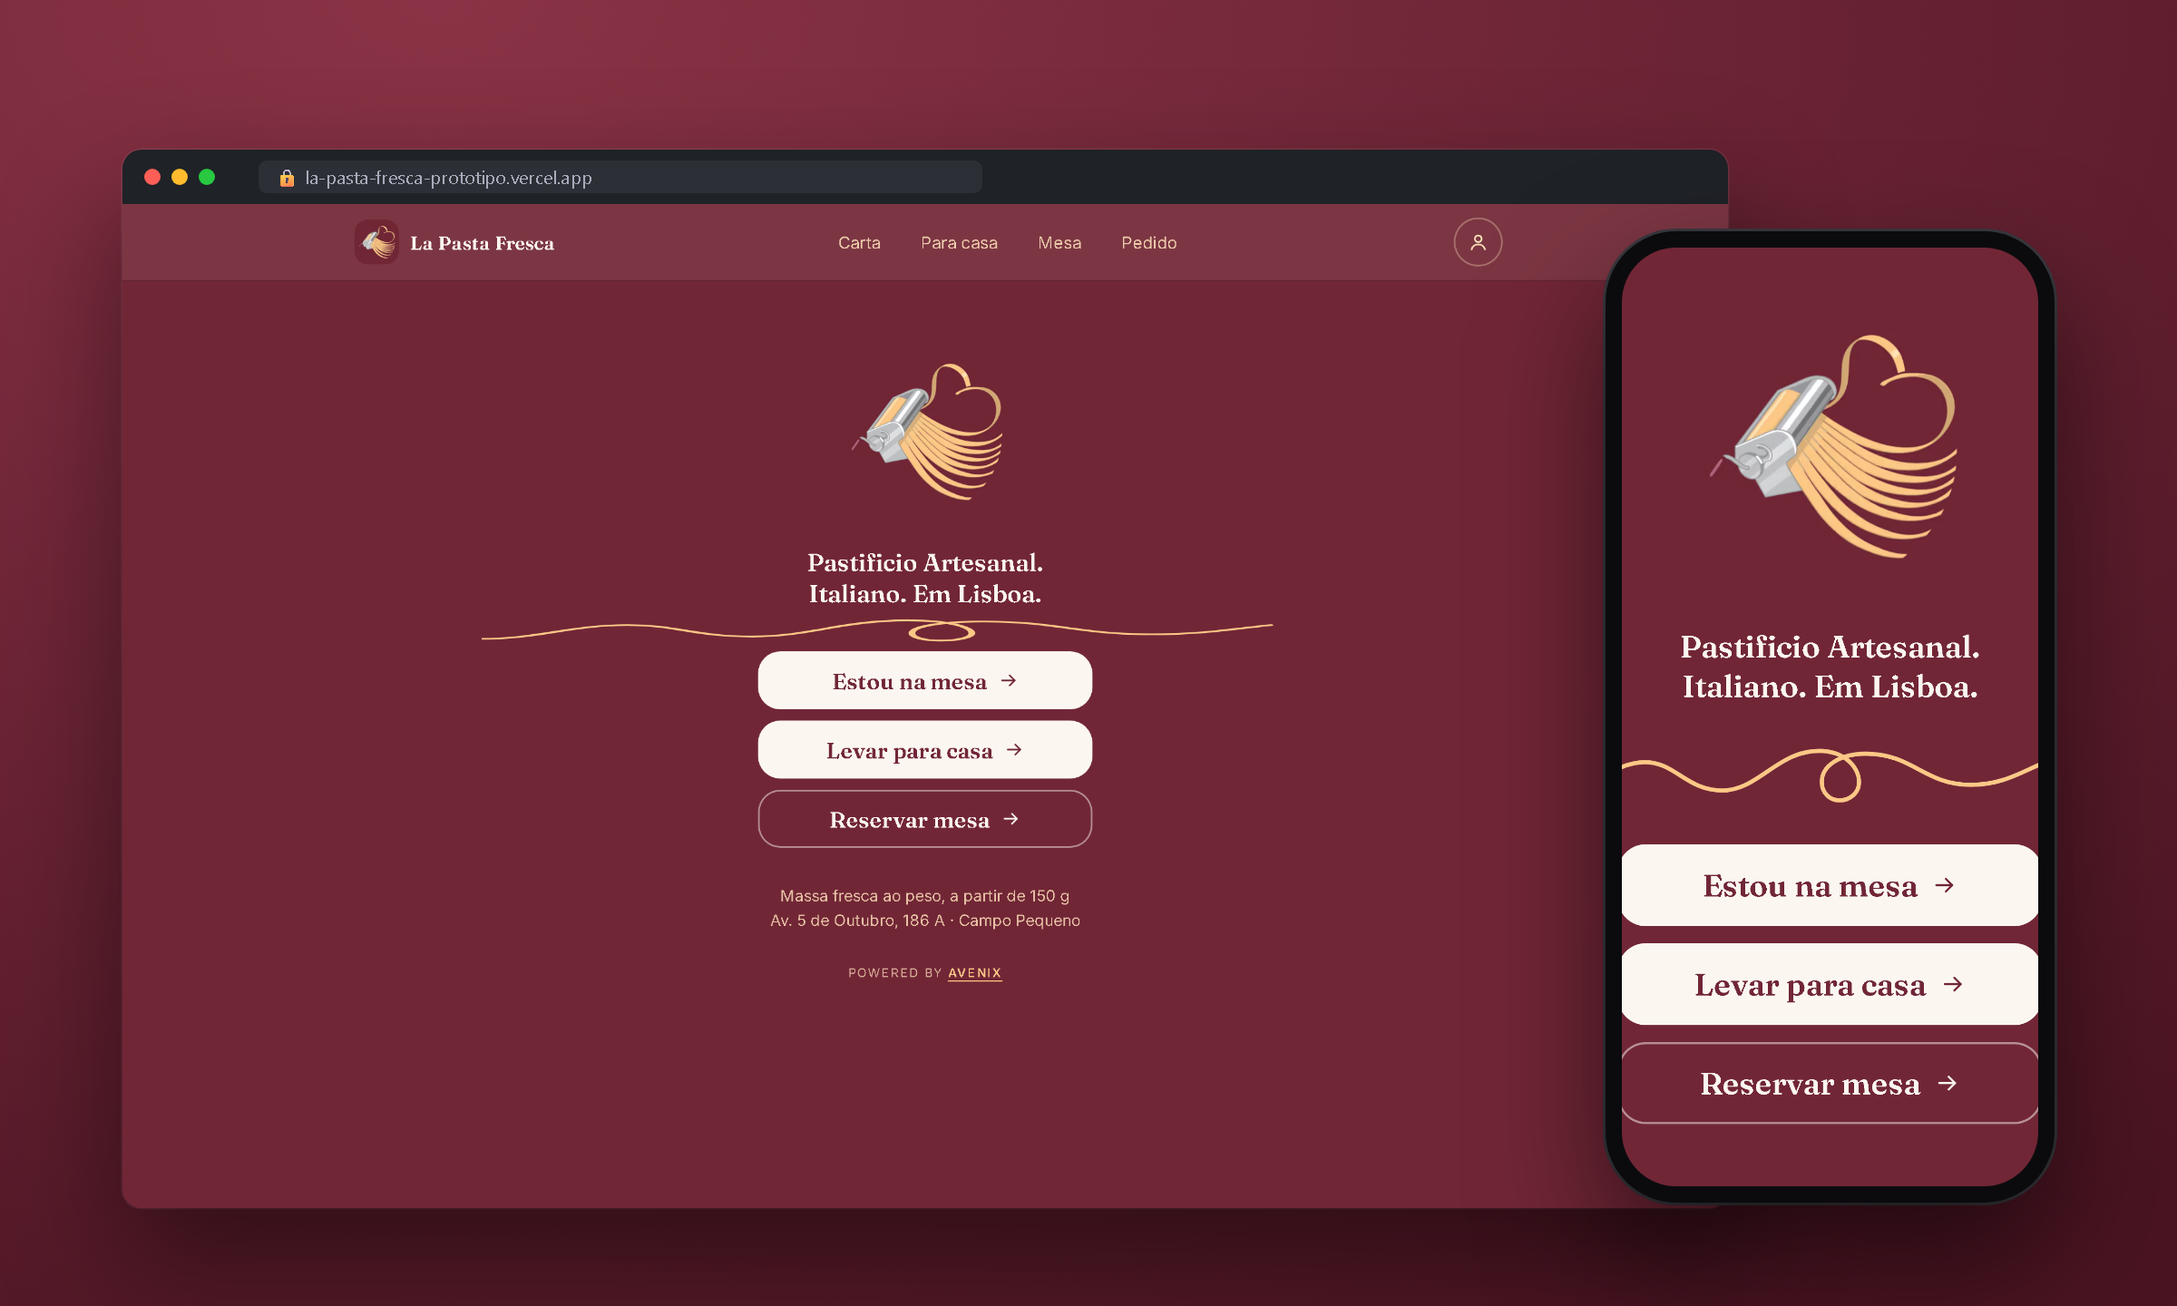
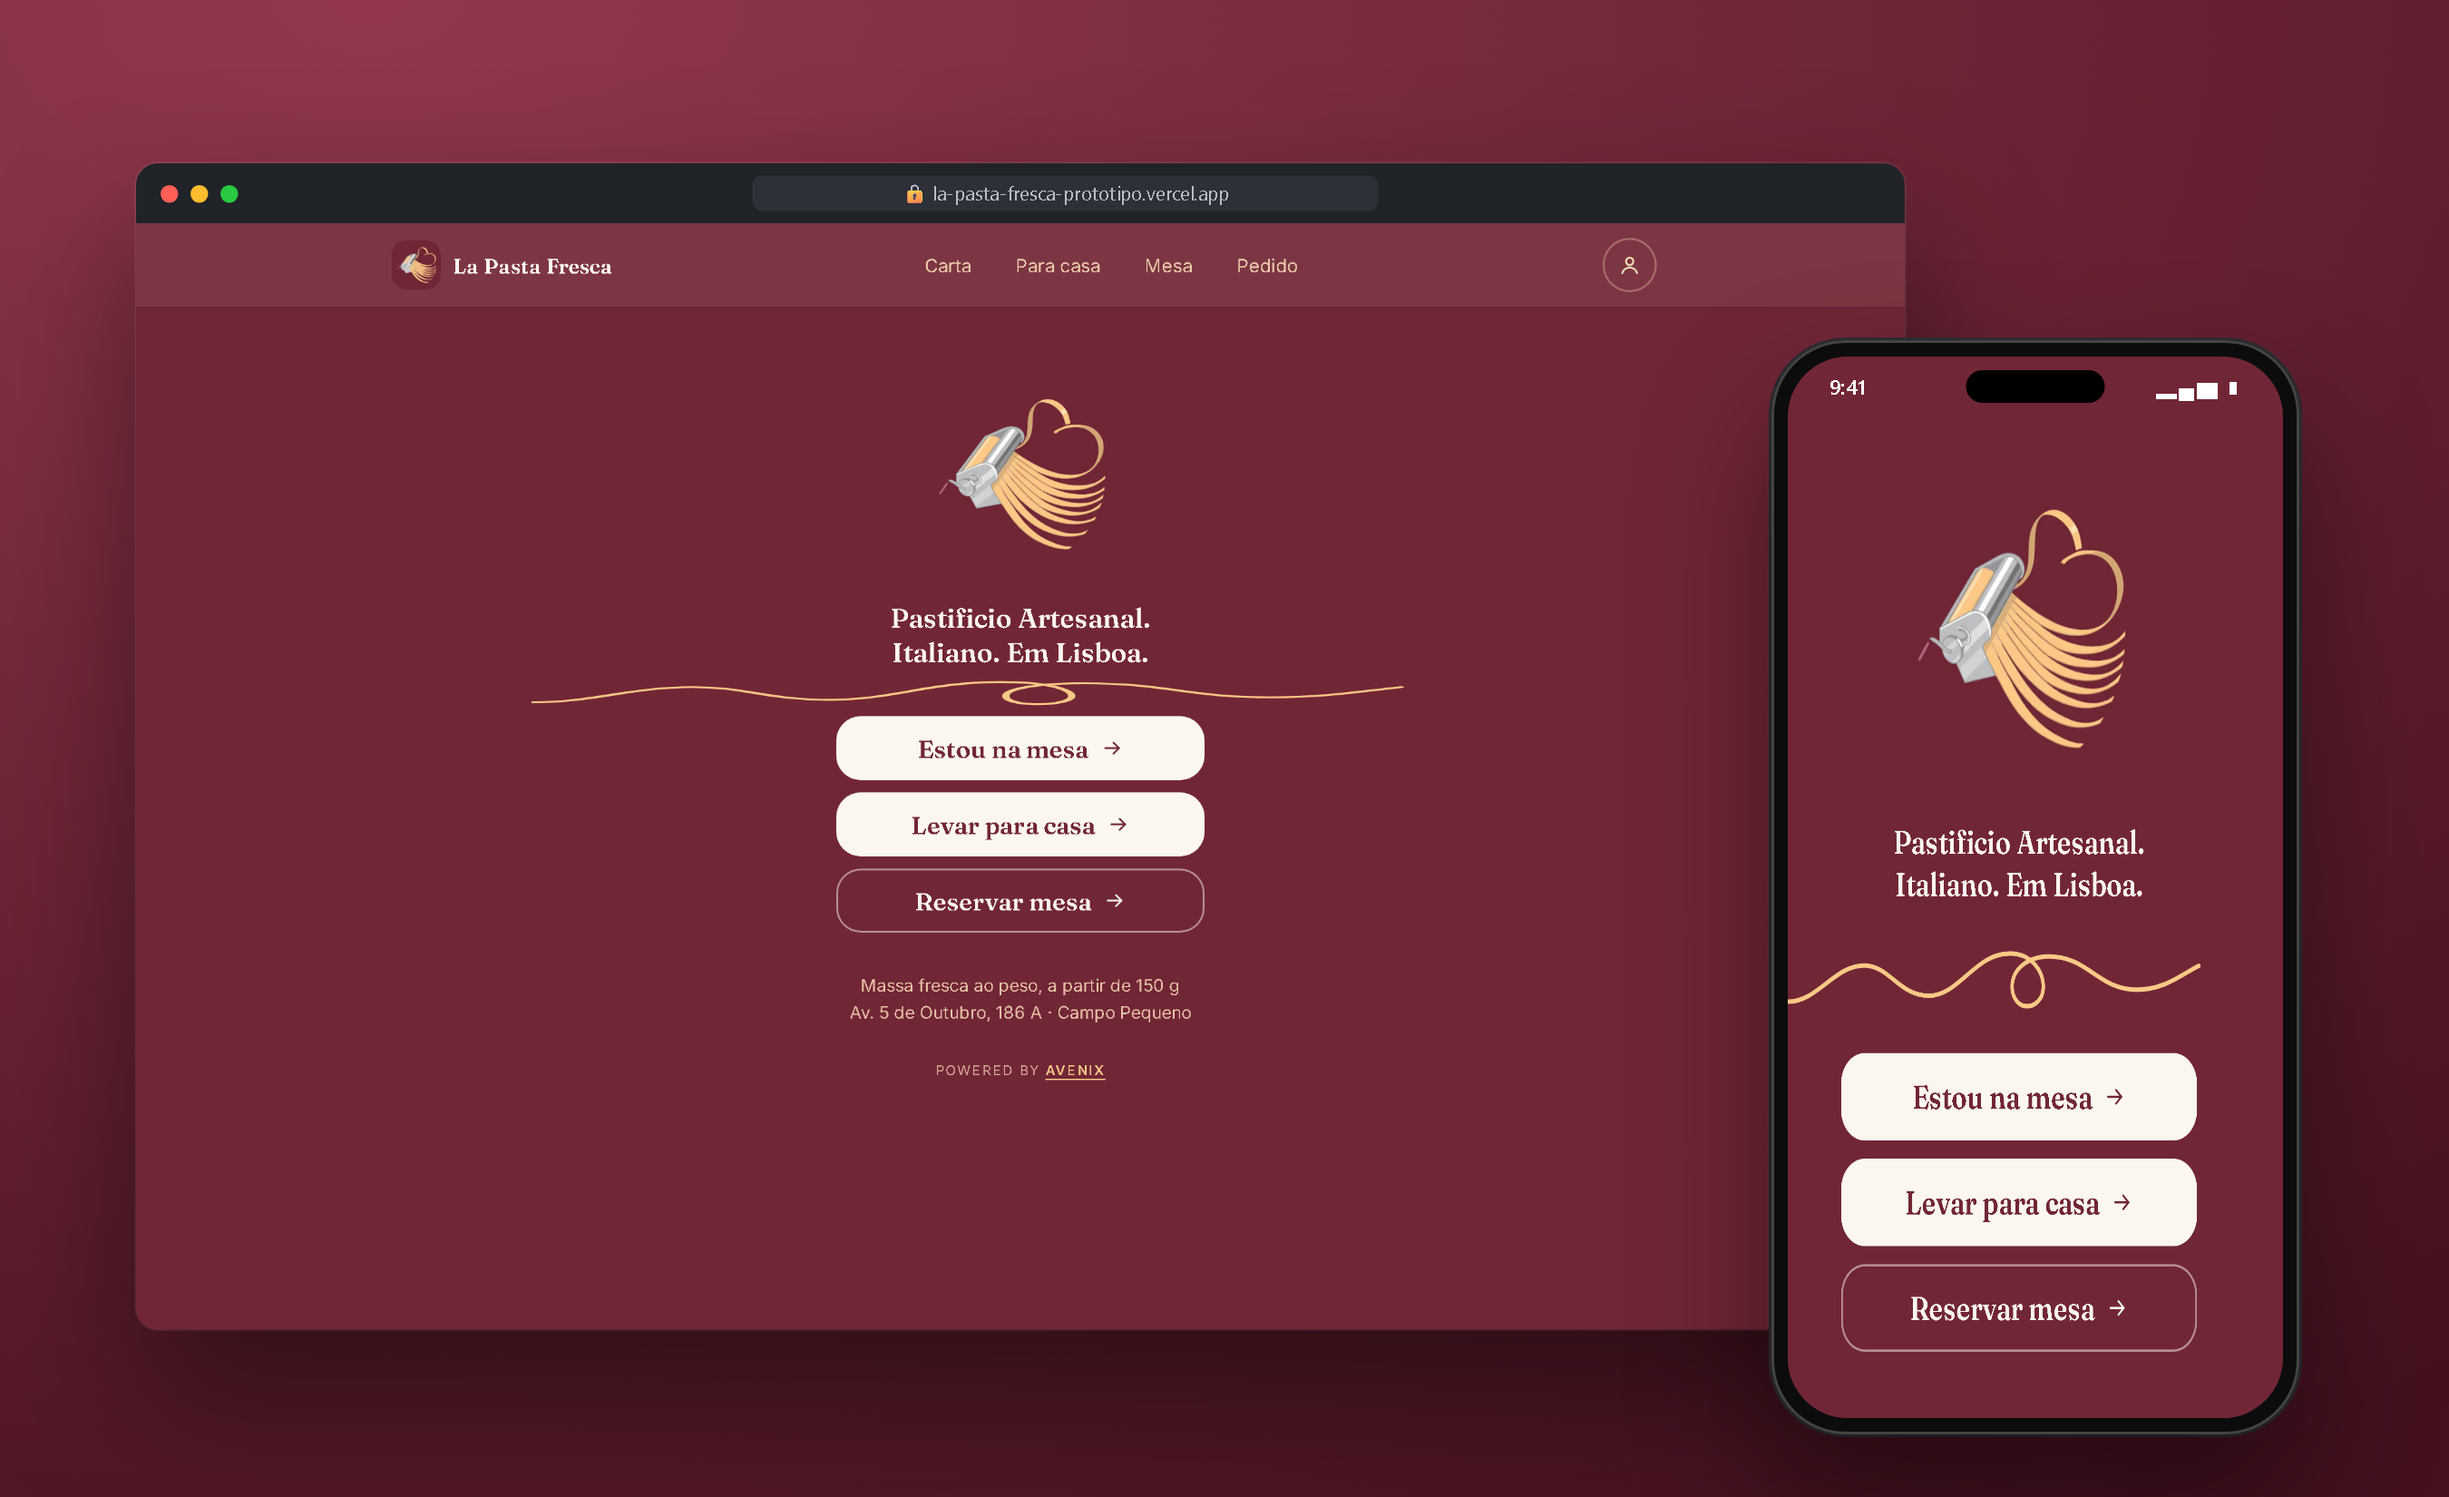
Professional screenshots: device mockups, three mobile screens, desktop

Changed region(s): [[0.0312, 0.0938, 0.9688, 0.9688], [0.3438, 0.4062, 0.5, 0.75], [0.375, 0.2812, 0.4688, 0.375]]

diff --git a/README.md b/README.md
@@ -13,18 +13,21 @@ Digital menu and ordering prototype for La Pasta Fresca, an artisan pasta restau
 ## Highlights
 
 - **Three entry points:** order at the table, take home, or book a table.
-- **Menu with photos** and fresh pasta sold by weight.
+- **Menu with photos** and filters by category.
+- **Fresh pasta by weight:** reserved at the counter, picked up or delivered.
 - **Custom visual identity:** brand illustration, serif typography and a warm palette.
 
-## Screenshots
+## Mobile
 
-| Desktop | Mobile | Menu (desktop) |
-|---|---|---|
-| <img src="screenshots/desktop.png" width="520"> | <img src="screenshots/mobile.png" width="200"> | <img src="screenshots/desktop-menu.png" width="200"> |
+<img src="screenshots/mobile.png" alt="La Pasta Fresca · Digital Menu Prototype mobile screens" width="100%">
+
+## Desktop
+
+<img src="screenshots/desktop.png" alt="La Pasta Fresca · Digital Menu Prototype desktop" width="100%">
 
 ## Stack
 
-![TypeScript](https://img.shields.io/badge/TypeScript-3178C6?style=flat-square) ![React](https://img.shields.io/badge/React-61DAFB?style=flat-square)
+![Next.js](https://img.shields.io/badge/Next.js-000000?style=flat-square) ![React](https://img.shields.io/badge/React-61DAFB?style=flat-square) ![TypeScript](https://img.shields.io/badge/TypeScript-3178C6?style=flat-square)
 
 ## My role
 
@@ -36,4 +39,8 @@ The source code is private because it belongs to the client. I am happy to walk 
 
 ---
 
-Built by **[Erick Rodrigues](https://github.com/Erickrodrigues05)**, Full-Stack Developer · erickrodrigues781@gmail.com
+<div align="center">
+
+Built by **[Erick Rodrigues](https://github.com/Erickrodrigues05)**, Full-Stack Developer · [erickrodrigues781@gmail.com](mailto:erickrodrigues781@gmail.com)
+
+</div>
